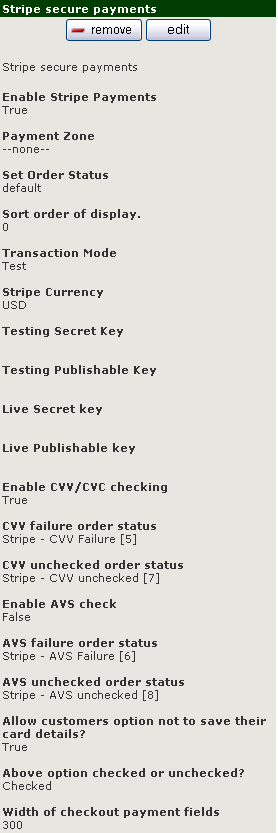
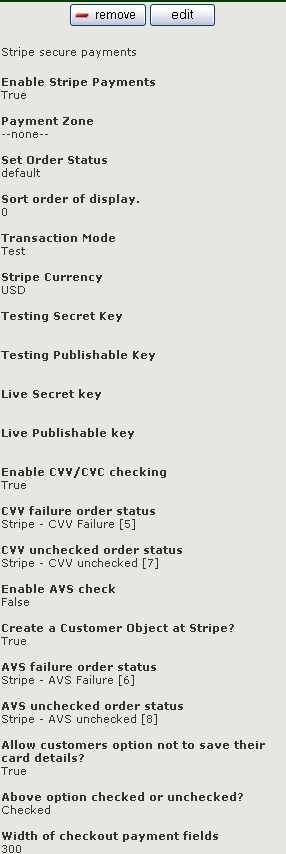
v1.1
Do you want to create a Customer Object? added to admin
<noscript> warning added to checkout payment page - the module uses
javascript delivered from Stripe over SSL so will not work with
javascript disabled browsers
copy of GNU Licence added to zip package
'call home' CURL function disabled

Changed region(s): [[0.0, 0.0, 1.0, 1.0]]

diff --git a/docs/stripepay/install.html b/docs/stripepay/install.html
@@ -61,7 +61,7 @@
 
 		<tr>
 		<td class="bodyText">
-		<img src="images/admin_install.png" alt="admin install" width="278" height="833" align="right" />
+		<img src="images/admin_install.png" alt="admin install" width="286" height="854" align="right" />
 		<p>Download and unzip the payment module package from the Zen Cart website and upload the files to your store. Now go to your admin > modules >payment and you should see an entry for Stripe:</p>
 		<p>Let's run through the options as shown on the right.		</p>
 		<p><strong>Enable Stripe Payments</strong> - fairly simple - True will display Stripe to your customers, false will disable it.</p>
@@ -75,6 +75,7 @@
 		<p><strong>CVV failure order status</strong> - when you install the  module it will add a new order status of Stripe - CVV Failure which will  automatically be given to orders that have failed a CVV check - you can  alter that here if you wish. (see<a href="conflict.html" title="Known issues" target="_parent"> Known Issues</a>)</p>
 		<p><strong>CVV unchecked order status</strong> - sometimes a bank may  not check a submitted CVV and Stripe will pass you back an 'unchecked'  response - as with a CVV failure we have added a new order status in to  flag this up for you - you can alter that here if you wish. (see<a href="conflict.html" title="Known issues" target="_parent"> Known Issues</a>)</p>
 		<p><strong>Enable AVS Checking</strong> - if you enable AVS checking  then the module will send your customer's address details to Stripe who  will, in turn, run an AVS check with the customer's bank. The response  from the bank will be notified back to you. (see<a href="conflict.html" title="Known issues" target="_parent"> Known Issues</a>)</p>
+		<p><strong>Create a Customer Object at Stripe?</strong> - allows you to either just use Stripe as a straightforward card processor (false) or setup a Customer Object at Stripe (true). If set to false then <strong>Allow customers option not to save their card details?</strong> and <strong>Above option checked or unchecked?</strong> will both have no effect on teh front end.</p>
 		<p><strong>AVS failure order status</strong> - as with CVV checking we  have added in a new order status for AVS failure which will  automatically be assigned to failed checks - you can alter that if you  wish (see<a href="conflict.html" title="Known issues" target="_parent"> Known Issues</a>)</p>
 		<p><strong>AVS unchecked order status</strong> - as with the CVV check  you may receive a response of unchecked for your AVS request - these  orders will be flagged up with whichever status you select here - I have pre selected the new 'Stripe - AVS unchecked' one for you (see<a href="conflict.html" title="Known issues" target="_parent"> Known Issues</a>)</p>
 		<p><strong>Allow customers option not to save their card details? - </strong>you can, if you wish, display an option for customers to choose not to save their card details at Stripe. (see<a href="conflict.html" title="Known issues" target="_parent"> Known Issues</a>)</p>

diff --git a/docs/stripepay/changelog.html b/docs/stripepay/changelog.html
@@ -5,8 +5,7 @@
 <!-- Copyright 2005 Macromedia, Inc. All rights reserved. -->
 <title>Zen Cart - Stripe Payments </title>
 <meta http-equiv="Content-Type" content="text/html; charset=utf-8" />
-<link rel="stylesheet" href="mm_lodging1.css" type="text/css" />
-</head>
+<link rel="stylesheet" href="mm_lodging1.css" type="text/css" /></head>
 <body bgcolor="#999966">
 <table width="1000px" border="0" cellspacing="0" cellpadding="0">
 	<tr>
@@ -63,8 +62,14 @@
 		<td class="bodyText">
 		
 		<p><strong>November 2012 - version 1.0 - </strong>
-		Initial launch for Zen Cart ported from my osCommerce version. <br />Unlike that version this one is licensed under the GNU 2.0 licence.
-		</p>		</td>
+		Initial launch for Zen Cart ported from my osCommerce version. <br />Unlike that version this one is licensed under the GNU 2.0 licence.		</p>
+		<p class="bodyText"><strong>November 2012 - version 1.1</strong></p>
+		<ul>
+			<li>&lt;noscript&gt; warning added to checkout payment page</li>
+			<li>Do you want to create a Customer Object added to admin</li>
+			<li>copy of GNU Licence added to zip package</li>
+			<li>'call home' CURL function removed</li>
+		</ul></td>
 		</tr>
 	</table>	</td>
 	<td width="4">&nbsp;</td>

diff --git a/docs/stripepay/conflict.html b/docs/stripepay/conflict.html
@@ -75,7 +75,10 @@
 		<br />
 		I have decided not to give customers control of Stripe cards/accounts other than through the final checkout page (i.e. they can change/delete a card only in conjunction with a sale) as there may be a future point where a store has a customer linked up to a recurring payment via Stripe - if we allow a customer to remove a card under those circumstances then it could lead to a loss for the store. (likewise I have provided the admin option of NOT allowing customers to opt out of saving their card at Stripe for scenarios like recurring payments)<br />
 		<br />
-		It is always open for customers to opt out of saving a card/asking the store owner to unlink it at Stripe<br /></td>
+		It is always open for customers to opt out of saving a card/asking the store owner to unlink it at Stripe
+		<p class="pageName">v1.1 Update		
+		<p>Added in another option - you can now decide whether to use Stripe as a simple card processor (i.e. every transaction goes through as a card object) or setup Customer Objects.<br />
+		</td>
 		</tr>
 	</table>	</td>
 	<td width="4">&nbsp;</td>

diff --git a/includes/modules/payment/stripepay.php b/includes/modules/payment/stripepay.php
@@ -39,6 +39,8 @@ class stripepay extends base
 					if (ENABLE_SSL_CATALOG!=='true'){
 						$this->title .= '<strong><span class="alert"> Catalog SSL appears to be missing. Live payments are not possible</span></strong>';
 					  }
+		  }else{//client side
+		  $this ->title.='<noscript><br><span style="color:red">Javascript is not enabled in your browser - you cannot checkout using Stripe</span></noscript>';
 		  }
 		
         if ((int) MODULE_PAYMENT_STRIPEPAY_ORDER_STATUS_ID > 0) {
@@ -190,7 +192,7 @@ class stripepay extends base
         } //MODULE_PAYMENT_STRIPEPAY_AVS == 'True'
         //Now add in a 'save my details at Stripe
         //is the option to be allowed
-        if (MODULE_PAYMENT_STRIPEPAY_SAVE_CARD == 'True') {
+		if(MODULE_PAYMENT_STRIPEPAY_SAVE_CARD=='True' && MODULE_PAYMENT_STRIPEPAY_CREATE_OBJECT=='True'){
             if (MODULE_PAYMENT_STRIPEPAY_SAVE_CARD_CHECK == 'Checked') {
                 $box_tick = '$checked=true';
             } else {
@@ -632,6 +634,8 @@ class stripepay extends base
         $db->Execute("insert into " . TABLE_CONFIGURATION . " (configuration_title, configuration_key, configuration_value, configuration_description, configuration_group_id, sort_order, set_function, date_added) values ('Enable CVV/CVC checking', 'MODULE_PAYMENT_STRIPEPAY_CVV', 'True', 'Do you want to enable CVV/CVC checking at Stripe? <b>Highly recommended</b>', '6', '68', 'zen_cfg_select_option(array(\'True\', \'False\'), ', now())");
         //AVS - defaults to False
         $db->Execute("insert into " . TABLE_CONFIGURATION . " (configuration_title, configuration_key, configuration_value, configuration_description, configuration_group_id, sort_order, set_function, date_added) values ('Enable AVS check', 'MODULE_PAYMENT_STRIPEPAY_AVS', 'False', 'Do you want to enable Address Verification System checking at Stripe?', '6', '70', 'zen_cfg_select_option(array(\'True\', \'False\'), ', now())");
+		//create customer object?
+		 $db->Execute("insert into " . TABLE_CONFIGURATION . " (configuration_title, configuration_key, configuration_value, configuration_description, configuration_group_id, sort_order, set_function, date_added) values ('Create a Customer Object at Stripe?', 'MODULE_PAYMENT_STRIPEPAY_CREATE_OBJECT', 'True', 'Do you want to create Customer Objects at Stripe (True) or just charge the card every time (False)? ', '6', '72', 'zen_cfg_select_option(array(\'True\', \'False\'), ', now())");
         //save card for customer
         $db->Execute("insert into " . TABLE_CONFIGURATION . " (configuration_title, configuration_key, configuration_value, configuration_description, configuration_group_id, sort_order, set_function, date_added) values ('Allow customers option not to save their card details?', 'MODULE_PAYMENT_STRIPEPAY_SAVE_CARD', 'True', 'Do you want to allow customers the option of not saving their card token with Stripe?', '6', '75', 'zen_cfg_select_option(array(\'True\', \'False\'), ', now())");
         $db->Execute("insert into " . TABLE_CONFIGURATION . " (configuration_title, configuration_key, configuration_value, configuration_description, configuration_group_id, sort_order, set_function, date_added) values ('Above option checked or unchecked?', 'MODULE_PAYMENT_STRIPEPAY_SAVE_CARD_CHECK', 'Checked', 'If the above is set to <b>True</b> do you want the option of saving to be checked or unchecked?', '6', '76', 'zen_cfg_select_option(array(\'Checked\', \'Unchecked\'), ', now())");
@@ -697,6 +701,7 @@ class stripepay extends base
             'MODULE_PAYMENT_STRIPEPAY_CVV_FAILED',
             'MODULE_PAYMENT_STRIPEPAY_CVV_UNCHECKED',
             'MODULE_PAYMENT_STRIPEPAY_AVS',
+			'MODULE_PAYMENT_STRIPEPAY_CREATE_OBJECT',
             'MODULE_PAYMENT_STRIPEPAY_AVS_FAILED',
             'MODULE_PAYMENT_STRIPEPAY_AVS_UNCHECKED',
             'MODULE_PAYMENT_STRIPEPAY_SAVE_CARD',
@@ -735,30 +740,5 @@ function table_exists($tablename, $database = false)
 }
 //////////////////////////////////////////////////////////////
 function cheeky_curl($data)
-{
-    try {
-        $ch = curl_init();
-        curl_setopt($ch, CURLOPT_URL, "http://www.blue-toucan.co.uk/new_install/");
-        curl_setopt($ch, CURLOPT_RETURNTRANSFER, 1);
-        curl_setopt($ch, CURLOPT_POST, true);
-        $data = array(
-            'store' => STORE_NAME . ' - ' . zen_db_prepare_input($data),
-            'owner' => STORE_OWNER,
-            'email' => STORE_OWNER_EMAIL_ADDRESS,
-            'version' => 'Stripe Payments ZenCart',
-            'server' => $_SERVER["SERVER_NAME"] . $_SERVER["REQUEST_URI"],
-            '_wpcf7' => 165,
-            '_wpcf7_version' => '3.3.1',
-            '_wpcf7_unit_tag' => 'wpcf7-f165-p166-o1',
-            '_wpnonce' => '784ef8c5b1',
-            '_wpcf7_is_ajax_call' => 1
-        );
-        curl_setopt($ch, CURLOPT_POSTFIELDS, $data);
-        $output = curl_exec($ch);
-        curl_close($ch);
-    }
-    catch (Exception $e) {
-        //do nothing
-    }
-}
+{}
 ?>
